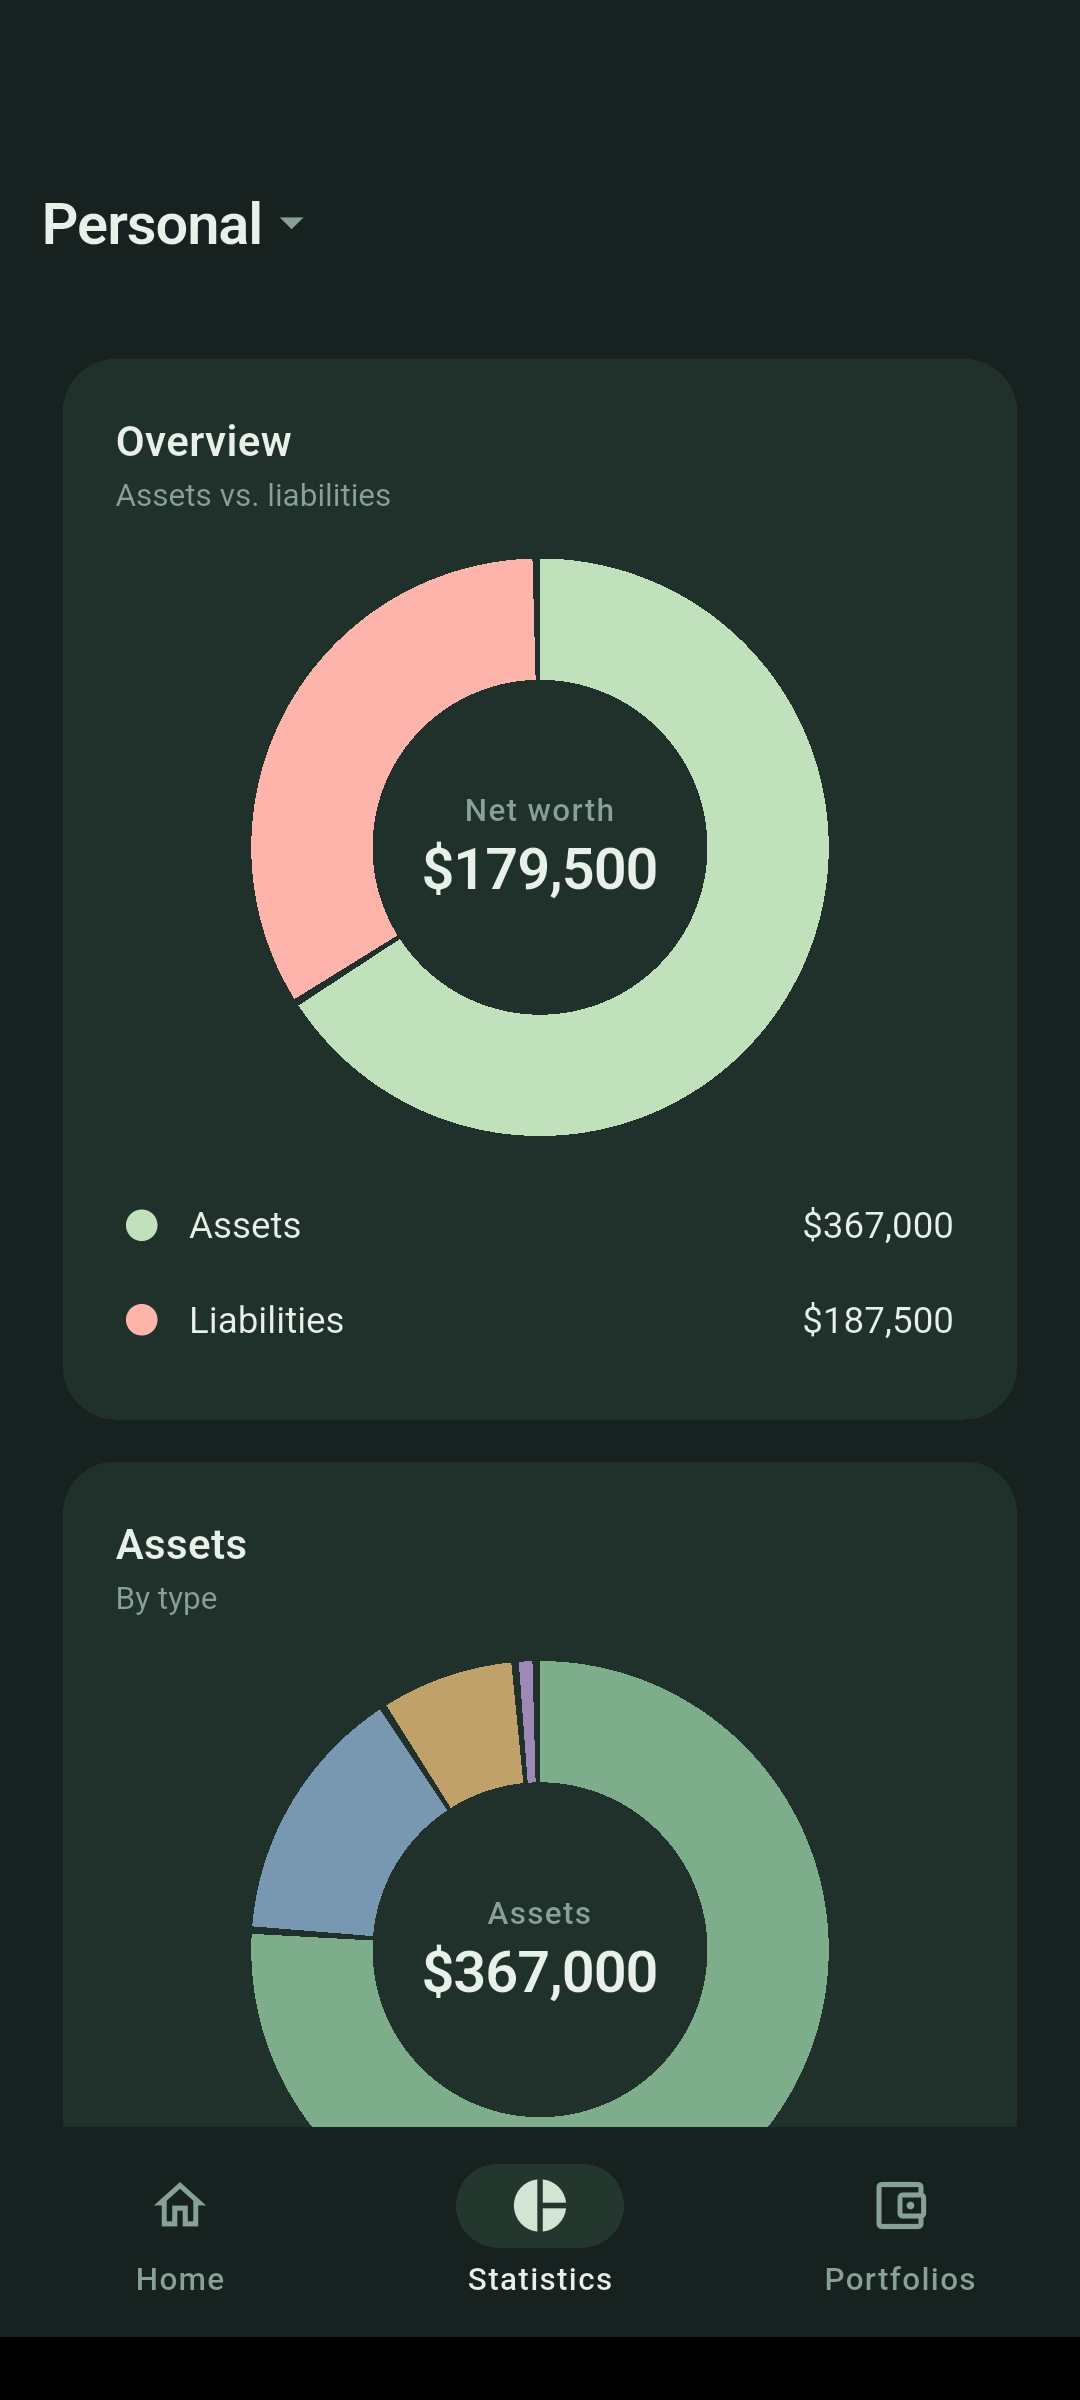
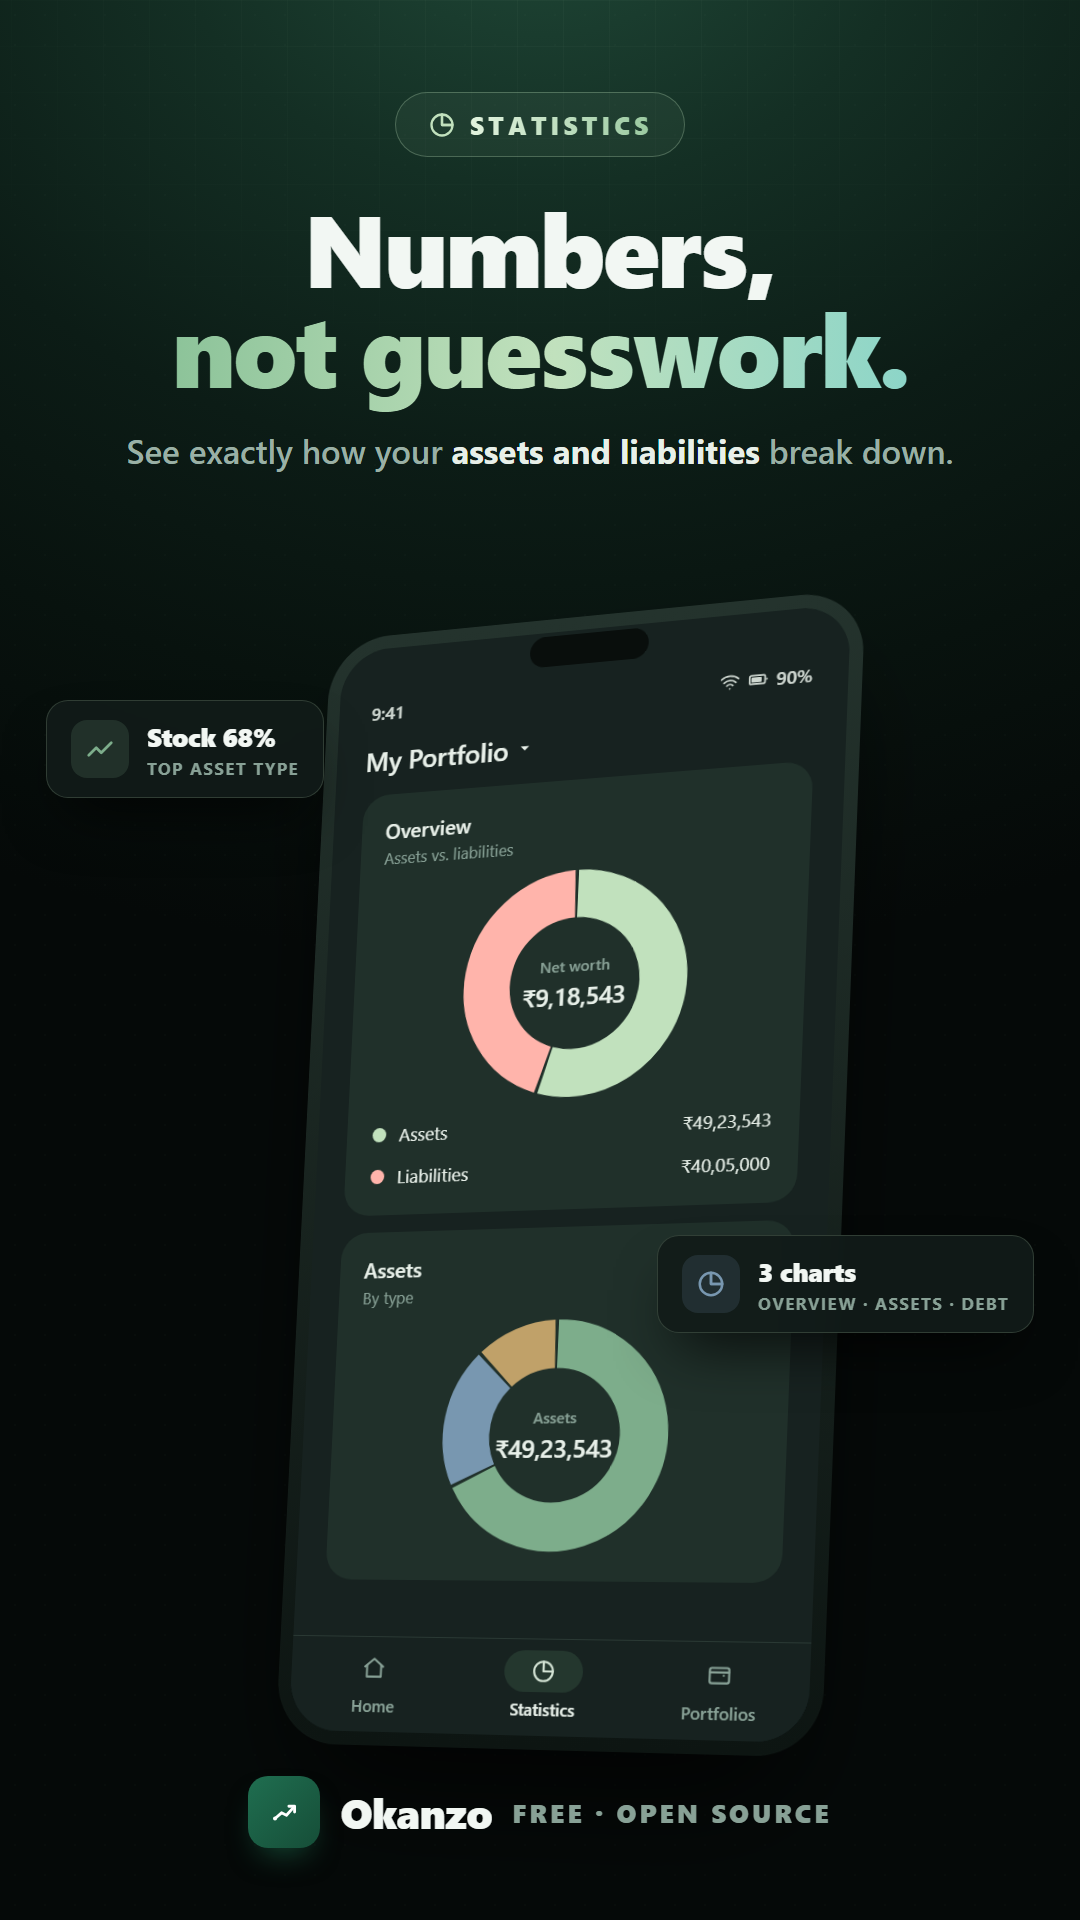
Prepare v1.4.5 with Streak-style F-Droid graphics and posters
Update fastlane featureGraphic.png (1024x500) and phoneScreenshots/1.png-6.png (1080x1920) to Okanzo's Midnight and sage framed promotional style, and include the latest Android-only README and hero banner updates (#28, #29).

Bump version to 1.4.5+15 (split APK codes 151, 152, 153) with localized What's new highlights and per-ABI changelogs.

diff --git a/marketing/generate.html b/marketing/generate.html
@@ -270,6 +270,40 @@
   .b-phone-slot .phone{
     box-shadow: 0 36px 80px -16px rgba(0,0,0,.88), 0 0 0 2px rgba(193,225,189,.13) inset;
   }
+
+  /* ---- Streak-style F-Droid / store featureGraphic (1024x500) ---- */
+  .fgraphic{
+    width:1024px; height:500px; position:relative; overflow:hidden;
+    background:
+      radial-gradient(80% 72% at 50% 8%, #21503c 0%, #143125 34%, #0b1b15 62%, #060b09 86%, #040807 100%);
+    color:#E8F0E9; display:flex; flex-direction:column; align-items:center;
+  }
+  .fgraphic::after{
+    content:""; position:absolute; inset:0;
+    background-image: radial-gradient(rgba(193,225,189,.055) 1px, transparent 1.2px);
+    background-size:20px 20px; opacity:.45; pointer-events:none;
+  }
+  .fg-top{ position:relative; z-index:10; display:flex; flex-direction:column; align-items:center; padding-top:34px; }
+  .fg-brand{ display:flex; align-items:center; gap:14px; }
+  .fg-icon{
+    width:46px; height:46px; border-radius:12px; display:grid; place-items:center;
+    background:linear-gradient(135deg,#127355,#185624);
+    box-shadow:0 10px 22px -8px rgba(18,115,85,.65), 0 0 0 1px rgba(193,225,189,.18) inset;
+  }
+  .fg-icon svg{ width:30px; height:30px; }
+  .fg-title{ font-size:48px; font-weight:900; letter-spacing:-1.6px; line-height:1; color:#F4F8F5; }
+  .fg-sub{ margin-top:14px; font-size:19px; color:#B4C7BD; font-weight:400; text-align:center; }
+  .fg-pills{ display:flex; gap:10px; margin-top:16px; }
+  .fg-pill{
+    border:1.2px solid rgba(193,225,189,.28); border-radius:100px;
+    padding:6px 16px; font-size:11px; font-weight:700; letter-spacing:1.6px;
+    color:#E4F1E7; background:rgba(19,33,28,.62);
+  }
+  .fg-stage{ position:absolute; left:0; right:0; top:208px; bottom:0; z-index:5; }
+  .fg-phone-slot{ position:absolute; transform-origin:top left; }
+  .fg-phone-slot .phone{
+    box-shadow: 0 32px 72px -14px rgba(0,0,0,.9), 0 0 0 2px rgba(193,225,189,.14) inset;
+  }
 </style>
 </head>
 <body>
@@ -650,14 +684,50 @@ function bannerHTML(){
   </div>`;
 }
 
+function featureGraphicHTML(){
+  return `<div class="fgraphic">
+    <div class="fg-top">
+      <div class="fg-brand">
+        <div class="fg-icon">${I.trend}</div>
+        <div class="fg-title">Okanzo</div>
+      </div>
+      <div class="fg-sub">A private, offline-first net worth tracker</div>
+      <div class="fg-pills">
+        <div class="fg-pill">FREE</div>
+        <div class="fg-pill">OPEN SOURCE</div>
+        <div class="fg-pill">NO ACCOUNT</div>
+      </div>
+    </div>
+    <div class="fg-stage">
+      <div class="fg-phone-slot" style="left:212px; top:34px; z-index:2; transform:perspective(1400px) rotateY(15deg) rotateX(3deg) rotateZ(-6deg) scale(0.37);">
+        <div class="phone"><div class="island"></div><div class="screen">${statsScreen()}</div></div>
+      </div>
+      <div class="fg-phone-slot" style="left:392px; top:4px; z-index:4; transform:scale(0.42);">
+        <div class="phone"><div class="island"></div><div class="screen">${homeScreen(true)}</div></div>
+      </div>
+      <div class="fg-phone-slot" style="left:602px; top:32px; z-index:3; transform:perspective(1400px) rotateY(-15deg) rotateX(3deg) rotateZ(6deg) scale(0.37);">
+        <div class="phone"><div class="island"></div><div class="screen">${lockScreen()}</div></div>
+      </div>
+    </div>
+  </div>`;
+}
+
 document.getElementById('root').innerHTML = POSTERS.map(posterHTML).join('');
 
 // Single-poster export mode: generate.html?p=INDEX renders just one 1080x1920 poster.
 // Banner export mode: generate.html?banner=1 renders the 1200x400 (2400x800 @ 2x) README banner.
+// Feature graphic mode: generate.html?feature=1 renders the 1024x500 F-Droid / store feature graphic.
 const _params = new URLSearchParams(location.search);
 const _single = _params.get('p');
 const _banner = _params.get('banner');
-if (_banner !== null) {
+const _feature = _params.get('feature');
+if (_feature !== null) {
+  document.documentElement.style.background = '#040807';
+  document.body.style.width = '1024px';
+  document.body.style.height = '500px';
+  document.body.style.overflow = 'hidden';
+  document.getElementById('root').innerHTML = featureGraphicHTML();
+} else if (_banner !== null) {
   document.documentElement.style.background = '#040807';
   document.body.style.width = '1200px';
   document.body.style.height = '400px';

diff --git a/lib/domain/model/release_notes.dart b/lib/domain/model/release_notes.dart
@@ -42,9 +42,19 @@ class ReleaseNotes {
 class AppReleaseNotes {
   const AppReleaseNotes._();
 
-  static const String currentVersion = '1.4.4';
+  static const String currentVersion = '1.4.5';
 
   static const List<ReleaseNotes> all = <ReleaseNotes>[
+    ReleaseNotes(
+      version: '1.4.5',
+      highlights: <ReleaseHighlight>[
+        ReleaseHighlight(
+          icon: ReleaseHighlightIcon.theme,
+          title: 'Refreshed Midnight and sage store visuals',
+          description: 'Update store screenshots and promotional previews to match the Quiet overview and Midnight interface.',
+        ),
+      ],
+    ),
     ReleaseNotes(
       version: '1.4.4',
       highlights: <ReleaseHighlight>[

diff --git a/marketing/README.md b/marketing/README.md
@@ -21,7 +21,7 @@ The posters are generated from a single self-contained HTML file and rendered
 with headless Chrome/Edge (no build step or network needed).
 
 ```powershell
-# generator: marketing/generate.html  (?p=<0-5> for posters, ?banner=1 for README banner)
+# generator: marketing/generate.html  (?p=<0-5> for posters, ?banner=1 for README banner, ?feature=1 for 1024x500 store feature graphic)
 $chrome = "C:\Program Files\Google\Chrome\Application\chrome.exe"
 $src    = (Resolve-Path "marketing\generate.html").Path -replace '\\','/'
 $outDir = (Resolve-Path "marketing\screenshots").Path
